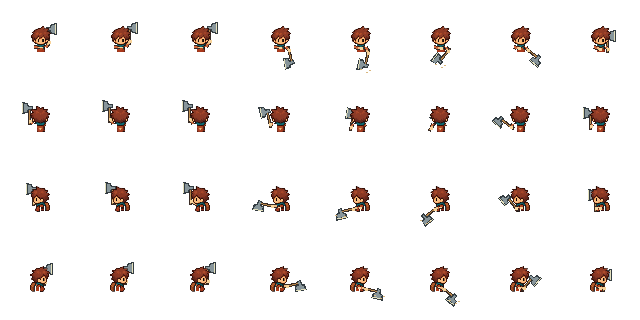
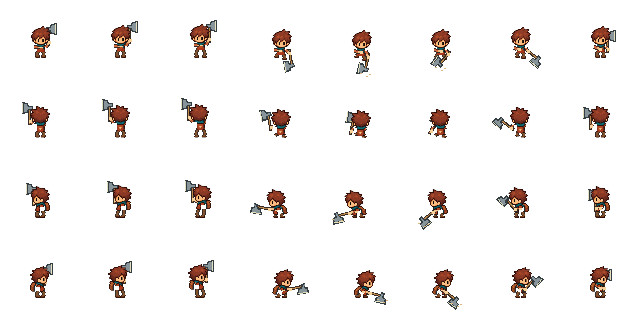
feat: animate Racha-Chao with raised stance and heavy crouched impact

diff --git a/docs/decisions/SKILLS1_V1.md b/docs/decisions/SKILLS1_V1.md
@@ -73,3 +73,5 @@ Nao publicar no TESTE fixo/main/PRODUCAO; somente preview apos validacao.
 
 Etapa A V2: Talho Agil com recuo, passada, giro/inclinacao e corte com faixa
 luminosa ligada a lamina; 734 verificacoes sem falhas, margens e identidade conferidas.
+
+Etapa B V2: Racha-Chao levanta tronco/arma e flexiona quadril/joelhos no impacto. 743 checks sem falhas; corrigida ligacao visual entre quadril e pes nas poses elevadas.
